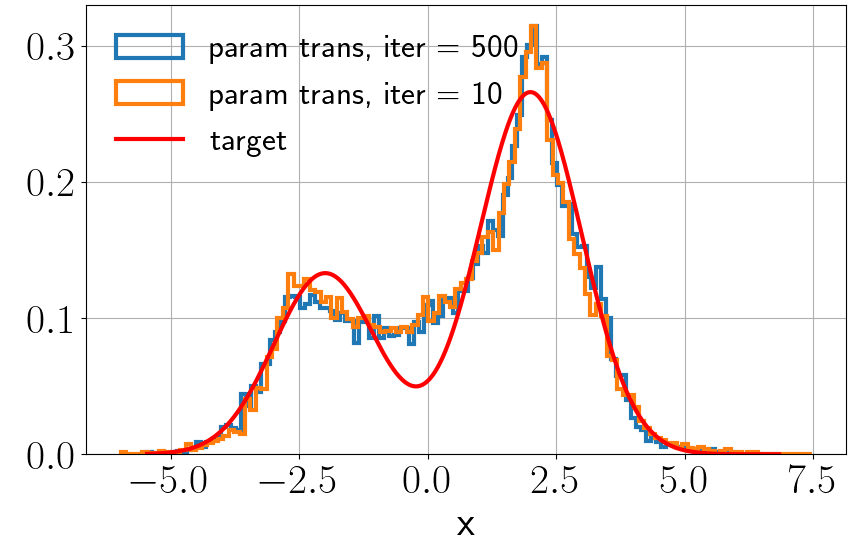
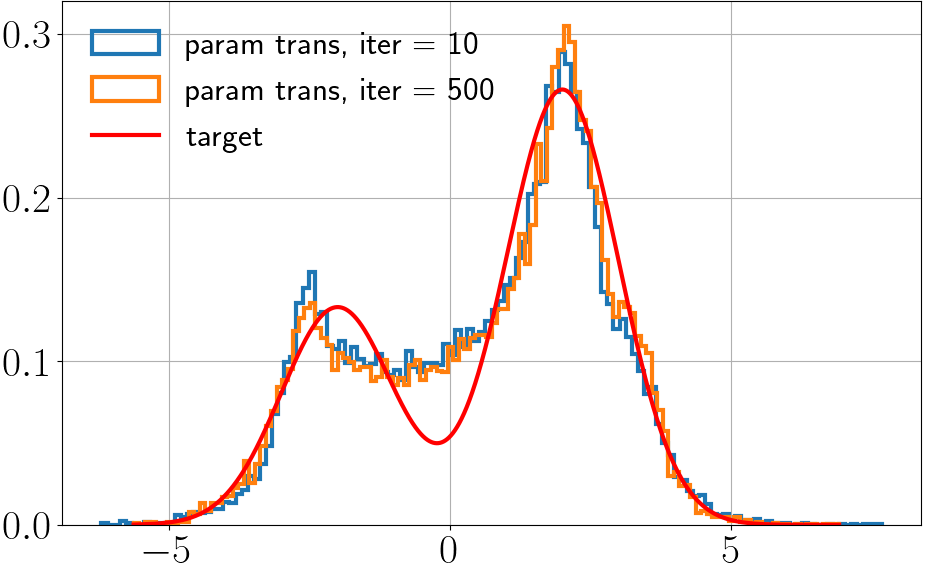
Add plots for paper

Changed region(s): [[0.0, 0.0, 1.0, 1.0]]

diff --git a/tests/test_1D.py b/tests/test_1D.py
@@ -6,7 +6,8 @@ import sys
 import os
 sys.path.append(os.path.abspath("/home/nisha/code/score-based-transport/bimodal"))
 from oneD_nonUni import *
-
+import seaborn as sns
+sns.set_style("whitegrid")
 def KRMap1(x):
     return ((x+1)**3 - 1)/7
 def KRMap2(x):
@@ -94,7 +95,8 @@ def test_kam_newton_unbounded(k,n_gr,n,msrc,ssrc,m1,m2,s1,s2,w1,w2):
     dtar_sc = lambda x: bimodal_score_derivative(x,m1,m2,s1,s2,w1,w2)
     src_sc = lambda x: gaussian_score(x,msrc,ssrc)
     Tx, x_gr, v_gr, p_gr, q_gr, normv = kam_newton(x,m1-10*s1,m2+10*s2,k,n_gr,n,tar_sc,dtar_sc,src_sc)
-    
+    Tx1, x_gr1, v_gr1, p_gr1, q_gr1, normv1 = kam_newton(x,m1-10*s1,m2+10*s2,15,n_gr,n,tar_sc,dtar_sc,src_sc)
+   
     Tx_gr = linspace(min(Tx), max(Tx), n_gr)
     px_tar = bimodal_prob(Tx_gr,m1,m2,s1,s2,w1,w2) 
     fig, ax = subplots()
@@ -110,12 +112,15 @@ def test_kam_newton_unbounded(k,n_gr,n,msrc,ssrc,m1,m2,s1,s2,w1,w2):
     savefig("../plots/v-k{}-ub.png".format(k))
     
     fig, ax = subplots()
-    ax.set_xlabel("x", fontsize=30)
+    #ax.set_xlabel("x", fontsize=30)
     ax.xaxis.set_tick_params(labelsize=30)
     ax.yaxis.set_tick_params(labelsize=30)
-    ax.hist(Tx,bins=100,lw=3.0,histtype="step",density=True,label=R"$\rho$")
-    ax.plot(Tx_gr,px_tar,lw=3.0,label=R"target")
-    ax.set_title("After {} iteration(s)".format(k),fontsize=30)
+    colors = sns.color_palette("Set2", 8)
+    sns.histplot(Tx,bins=100,ax=ax,color=colors[0],kde=True,fill=False,element="step",stat='density',kde_kws={'bw_adjust': 0.5},line_kws={'linewidth':3},label=R"SCONE, iter = 5")
+    sns.histplot(Tx1,bins=100,ax=ax,color=colors[1],kde=True,fill=False,element="step",stat='density',kde_kws={'bw_adjust':0.5},line_kws={'linewidth':3},label=R"SCONE, iter = 15")
+    ax.set_ylabel(" ")
+    ax.plot(Tx_gr,px_tar,lw=3.0,color="r",label=R"target")
+    #ax.set_title("After {} iteration(s)".format(k),fontsize=30)
     ax.grid(True)
     ax.legend(fontsize=24,framealpha=0,loc='upper left')
     tight_layout()

diff --git a/tests/test_mpart.py b/tests/test_mpart.py
@@ -218,9 +218,9 @@ if __name__ == '__main__':
         seed = 1928342
         # Ensure that the number of parameters * number of MC points for training <= 128*128
         num_test_pts = (512*512) // (total_order+1)
-        optimization_args = {'maxiter': 500} # Optimization algorithm gets 100 steps
+        optimization_args = {'maxiter': 10} # Optimization algorithm gets 100 steps
         tmap1 = train_map(num_test_pts, total_order, optimization_args)
-        optimization_args = {'maxiter': 10} 
+        optimization_args = {'maxiter': 500} 
         tmap2 = train_map(num_test_pts, total_order, optimization_args)
         with open(serialized_map_filename, 'wb') as f:
             pickle.dump(tmap1.CoeffMap(), f)
@@ -238,9 +238,10 @@ if __name__ == '__main__':
     ax.set_xlabel("x", fontsize=30)
     ax.xaxis.set_tick_params(labelsize=30)
     ax.yaxis.set_tick_params(labelsize=30)
-    ax.hist(eval_samples1, bins=128, lw=3.0, histtype="step", density=True, label="param trans, iter = 500")
-    ax.hist(eval_samples2, bins=128, lw=3.0, histtype="step", density=True, label="param trans, iter = 10")
-    ax.plot(eval_samples1, np.exp(gmm.logpdf(eval_samples1)), lw=3.0, label=R"target")
-    ax.plot(eval_samples2, np.exp(gmm.logpdf(eval_samples2)), lw=3.0, label=R"target")
-    ax.legend(fontsize=24,framealpha=0,loc='upper left')
+    ax.hist(eval_samples1, bins=128, lw=3.0, histtype="step", density=True, label="param trans, iter = 10")
+    ax.hist(eval_samples2, bins=128, lw=3.0, histtype="step", density=True, label="param trans, iter = 500")
+    ax.plot(eval_samples2, np.exp(gmm.logpdf(eval_samples2)), lw=3.0, color='r', label=R"target")
+    ax.legend(fontsize=24,framealpha=0)
+    ax.grid(True)
+    plt.tight_layout()
     plt.show()

diff --git a/bimodal/oneD_nonUni.py b/bimodal/oneD_nonUni.py
@@ -104,7 +104,7 @@ This function gives grid locations based on following assumptions:
     4. Density of points in layer (interior/boundary) is 10x that in nonlayer
 """
 def adapt_grid(a, b, dq, dx, n):
-    dens_fac = 10
+    dens_fac = 4
     int_wid, bl_wid, int_cent = 3.0, 2.0, argmax(dq)*dx + a
     nl_wid = b - a - 2*bl_wid - int_wid
     nl_dens = n/(dens_fac*(b-a) - (dens_fac-1)*nl_wid)
@@ -255,7 +255,7 @@ def kam_newton(x,a,b,k,n_gr,n,tar_sc,dtar_sc,src_sc):
     
     #Run Newton iterations
     for i in range(k):
-        v_gr = solve_newton_step_regularized(p_gr, q_gr, A, 0.06, n_gr)
+        v_gr = solve_newton_step_regularized(p_gr, q_gr, A, 0.08, n_gr)
         normv[i] = linalg.norm(v_gr)
         p_gr, Tx = newton_update(x_gr, v_gr, p_gr, Tx, n_gr, n)
         #print(max(q_gr), min(q_gr), max(p_gr), min(p_gr), max(Tx), min(Tx))

diff --git a/tests/test_svgd.py b/tests/test_svgd.py
@@ -1,3 +1,4 @@
+# Modified by Evan Montoya
 import numpy as np
 from scipy.spatial.distance import pdist, squareform
 import matplotlib.pyplot as plt

diff --git a/tests/readme.md b/tests/readme.md
@@ -1,0 +1,1 @@
+Chosen hyperparameters for paper: iterations:5 or 15, dens_fac to adapt grid: 4, n_gr: 512, regularization: 0.08
